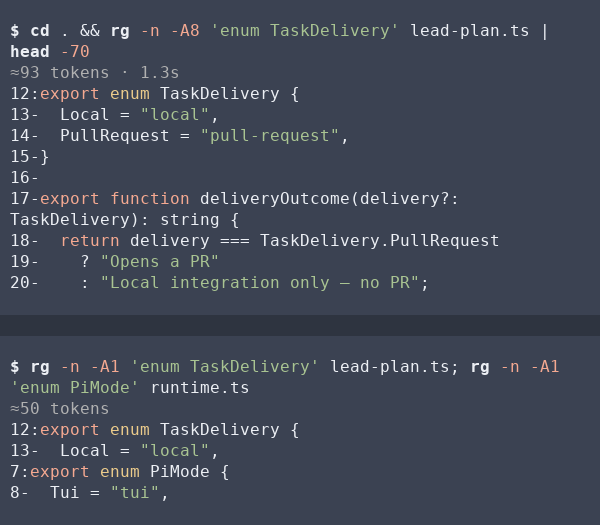
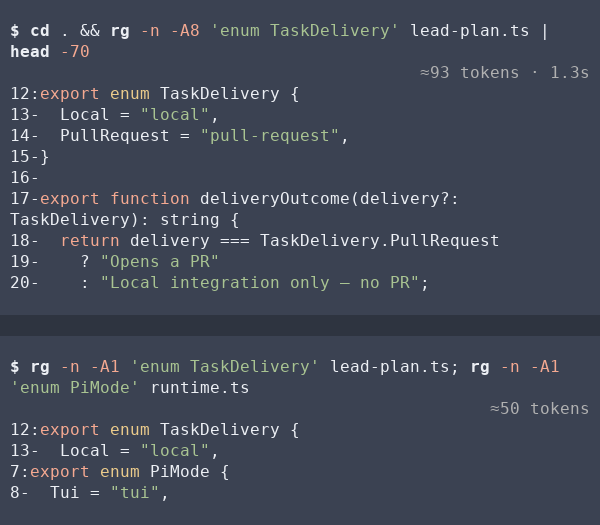
fix(rendering): right-align shell metadata and remove expand hints

diff --git a/tests/codex-patch.test.ts b/tests/codex-patch.test.ts
@@ -243,7 +243,7 @@ await test("Codex discovery displays TypeScript tokens in both compact and expan
     const display = stripTerminalSequences(rows.join("\n"));
     assert.doesNotMatch(display, /Took|0\.2s/u);
     assert.match(display, /≈\d+ tokens/u);
-    assert.equal(display.includes("+1 line"), !expanded);
+    assert.equal(display.includes("1 more line"), !expanded);
     const context = rows.find((row) =>
       stripTerminalSequences(row).includes(`17-${source}`),
     );
@@ -325,7 +325,7 @@ await test("finished shells use the result separator for size, hidden rows and s
         "Use the existing separator without adding a second row",
       );
       const label = [
-        ...(expanded ? [] : ["+1 line (ctrl+y)"]),
+        ...(expanded ? [] : ["1 more line"]),
         size,
         ...(durationMs === 1000 ? ["1.0s"] : []),
       ].join(" · ");
@@ -334,12 +334,7 @@ await test("finished shells use the result separator for size, hidden rows and s
         status.includes(inlayText(theme, label)),
         "Shell metadata uses Studio's inlay foreground",
       );
-      assert.equal(
-        rows.filter((row) => stripTerminalSequences(row).includes("ctrl+y"))
-          .length,
-        expanded ? 0 : 1,
-      );
-      assert.doesNotMatch(display, /earlier lines|to expand|Took/u);
+      assert.doesNotMatch(display, /ctrl\+[oy]|earlier lines|to expand|Took/u);
       assert.equal(display.includes("first"), expanded);
       assert.match(display, /last/u);
     }
@@ -351,7 +346,7 @@ await test("finished shells use the result separator for size, hidden rows and s
   second.setArgsComplete();
   second.updateResult({ ...result, durationMs: 300 });
   const secondHeader = stripTerminalSequences(second.render(100).join("\n"));
-  assert.match(secondHeader, /\$ cat output\.txt *\n *\+1 line/u);
+  assert.match(secondHeader, /\$ cat output\.txt *\n *1 more line/u);
   assert.doesNotMatch(secondHeader, /ctrl\+y|Took/u);
   const path = "/tmp/studio-shell-result.txt";
   const truncated = `${text}\n\n[Showing lines 15-20. Full output: ${path}]`;
@@ -383,6 +378,34 @@ await test("finished shells use the result separator for size, hidden rows and s
   assert.equal(empty.length, 2, "An empty result still shows one usage row");
   assert.equal(empty[0], "$ cat output.txt");
   assert.match(empty[1] ?? "", /^≈\d+ tokens$/u);
+});
+
+await test("shell previews report only rows they actually hide", async (t) => {
+  const { component } = await conversationFixture(t);
+  const shell = component("shell_command", { command: "cat report" });
+  shell.setArgsComplete();
+  const lines = Array.from({ length: 9 }, (_, i) => `result ${String(i + 1)}`);
+  for (const length of [4, 9]) {
+    const output = lines.slice(0, length);
+    shell.updateResult({
+      content: [{ type: "text", text: output.join("\n") }],
+      isError: false,
+    });
+    for (const expanded of [false, true]) {
+      shell.setExpanded(expanded);
+      const rows = shell
+        .render(80)
+        .map((row) => stripTerminalSequences(row).trim())
+        .filter(Boolean);
+      const [heading, metadata, ...shown] = rows;
+      assert.equal(heading, "$ cat report");
+      assert.ok(metadata !== undefined);
+      assert.deepEqual(shown, expanded ? output : output.slice(-5));
+      if (!expanded && length === 9)
+        assert.match(metadata, /^4 more lines · ≈\d+ tokens$/u);
+      else assert.match(metadata, /^≈\d+ tokens$/u);
+    }
+  }
 });
 
 await test("resizing shell results keeps the natural command rows and exactly one separator", async (t) => {
@@ -429,11 +452,19 @@ await test("resizing shell results keeps the natural command rows and exactly on
         natural.get(width),
         `Preserve the full command at ${String(width)} columns`,
       );
-      const status = rows[firstOutput - 1]?.trim() ?? "";
+      const statusRow = rows[firstOutput - 1] ?? "";
+      const status = statusRow.trim();
+      if (status !== "")
+        assert.equal(
+          visibleWidth(statusRow),
+          width - 1,
+          "Right-align metadata to the last content cell",
+        );
+      assert.doesNotMatch(status, /ctrl\+|to expand/u);
       if (width >= exactFit - 1) {
         assert.match(status, /≈\d+ tokens/u);
         assert.match(status, /1\.3s/u);
-        assert.equal(status.includes("+1 line"), !expanded);
+        assert.equal(status.includes("1 more line"), !expanded);
       }
       if (width === 6)
         assert.equal(

diff --git a/shell-preview.ts b/shell-preview.ts
@@ -29,14 +29,10 @@ export function shellOutputPreview(
   theme: Theme,
   {
     expanded,
-    expandKey,
-    showExpandKey,
     tokens,
     elapsed,
   }: {
     expanded: boolean;
-    expandKey: () => string;
-    showExpandKey: () => void;
     tokens: number | undefined;
     elapsed: string | undefined;
   },
@@ -45,7 +41,7 @@ export function shellOutputPreview(
   const metadata = (hidden: number, width: number) => {
     const count =
       hidden > 0
-        ? `+${hidden.toString()} ${hidden === 1 ? "line" : "lines"}`
+        ? `${hidden.toString()} more ${hidden === 1 ? "line" : "lines"}`
         : "";
     const size = tokens === undefined ? "" : `≈${tokens.toString()} tokens`;
     const fields: string[] = [];
@@ -58,15 +54,8 @@ export function shellOutputPreview(
         fields.push(field);
     }
     if (fields.length === 0) return "";
-    if (fields[0] === count) {
-      const key = expandKey();
-      const hinted = [`${count} (${key})`, ...fields.slice(1)].join(" · ");
-      if (key !== "" && visibleWidth(hinted) <= width) {
-        showExpandKey();
-        return inlayText(theme, hinted);
-      }
-    }
-    return inlayText(theme, fields.join(" · "));
+    const label = fields.join(" · ");
+    return " ".repeat(width - visibleWidth(label)) + inlayText(theme, label);
   };
 
   return {

diff --git a/search-renderer.ts b/search-renderer.ts
@@ -325,11 +325,7 @@ const outputDetails = z
 const originalArgs = z.object({ invocationArgs: z.unknown() });
 
 export function registerSearchRendering(pi: ExtensionAPI): void {
-  let expandHintCall: string | undefined;
-  pi.on("session_start", () => {
-    expandHintCall = undefined;
-    return prepareShellSyntax();
-  });
+  pi.on("session_start", () => prepareShellSyntax());
   const painted = new WeakSet<Component>();
   registerCodingRenderer(pi, (name, next) => {
     const base = next();
@@ -422,15 +418,6 @@ export function registerSearchRendering(pi: ExtensionAPI): void {
                   : styled;
               return shellOutputPreview(source, theme, {
                 expanded: options.expanded,
-                expandKey() {
-                  return expandHintCall === undefined ||
-                    expandHintCall === context.toolCallId
-                    ? context.keyText("app.tools.expand")
-                    : "";
-                },
-                showExpandKey() {
-                  expandHintCall ??= context.toolCallId;
-                },
                 tokens:
                   usage === undefined ? undefined : usage.call + usage.result,
                 elapsed: shellElapsed(timerText, context.durationMs, state),

diff --git a/acceptance/shell-header.py b/acceptance/shell-header.py
@@ -77,26 +77,38 @@ console.log(session.getSessionFile());
                 heading = f"$ {full_row_command} (timeout 30s)"
                 terminal.contains(heading)
                 terminal.contains("Retained line 7")
-                # Keep physical rows, including blanks, to catch an extra separator or wrapped metadata.
-                lines = [row.strip() for row in terminal.screen.display]
-                headings = [i for i, line in enumerate(lines) if line.endswith("30s)")]
-                assert len(headings) == len(commands), terminal.text()
-                assert lines[headings[-1]] == heading, terminal.text()
-                for index, row in enumerate(headings):
-                    metrics, first_result = lines[row + 1:row + 3]
-                    assert re.search(r"≈\d+ tokens", metrics), lines[row:row + 4]
-                    assert ("1.3s" in metrics) == (index > 0), lines[row:row + 4]
-                    if index == 2:
-                        assert "+2 lines" in metrics and "ctrl+o" in metrics, metrics
-                        assert first_result == "Retained line 3", lines[row:row + 4]
-                    else:
-                        assert first_result == "Retained fixture output; command was not executed.", lines[row:row + 4]
+                def check_metadata(folded):
+                    physical = terminal.screen.display
+                    lines = [line.strip() for line in physical]
+                    headings = [i for i, line in enumerate(lines) if line.endswith("30s)")]
+                    assert len(headings) == len(commands), terminal.text()
+                    assert lines[headings[-1]] == heading, terminal.text()
+                    for index, row in enumerate(headings):
+                        metrics, first_result = lines[row + 1:row + 3]
+                        # Studio's native tool card has one padding cell at either end.
+                        assert len(physical[row + 1].rstrip()) == width - 1, physical[row + 1]
+                        fields = metrics.split(" · ")
+                        tokens = [field for field in fields if re.fullmatch(r"≈\d+ tokens", field)]
+                        assert len(tokens) == 1, metrics
+                        expected = tokens + (["1.3s"] if index > 0 else [])
+                        if index == 2 and folded:
+                            expected.append("2 more lines")
+                        assert sorted(fields) == sorted(expected), metrics
+                        if index == 2:
+                            assert first_result == ("Retained line 3" if folded else "Retained line 1"), lines[row:row + 4]
+                        else:
+                            assert first_result == "Retained fixture output; command was not executed.", lines[row:row + 4]
+
+                check_metadata(folded=True)
                 # Compound command/flag colors must survive both native layouts.
                 for word in ("gh", "tail"):
                     assert_style(terminal, word, "syntaxFunction", bold=True)
                 for word in ("--repo", "--watch", "--fail-fast", "--interval", "--json", "--jq", "--limit", "-15", "--log"):
                     assert_style(terminal, word, "syntaxKeyword")
                 terminal.capture("shell-header")
+                terminal.send("\x0f")
+                terminal.contains("Retained line 1")
+                check_metadata(folded=False)
             finally:
                 terminal.close()
 
@@ -105,4 +117,4 @@ if __name__ == "__main__":
     parser = argparse.ArgumentParser()
     parser.add_argument("--output", type=Path)
     run(parser.parse_args().output)
-    print("Native Pi retained Bash headers preserve full-width command wrapping and put results directly after one metadata row at 128 and 60 columns; no rendered commands executed.")
+    print("Native Pi retained Bash headers preserve full-width command wrapping and put results directly after one right-aligned metadata row at 128 and 60 columns; no rendered commands executed.")

diff --git a/README.md b/README.md
@@ -233,7 +233,7 @@ In an ordinary coding session, Studio selects the core tool names and arguments 
 
 The dialects in `model-tools/dialects/` translate model-facing arguments and results. Both `Bash` and `shell_command` call `runShell` in `model-tools/operations.ts`, so their timeouts, output, and permissions go through the same Pi shell executor after translation. Claude `Edit` uses exact text replacement. Codex `apply_patch` uses a batch operation that preflights its hunks and runs through the same shell permission hook. The patch tool is available when local read, edit, write, and shell access are all active. Custom executors, restricted workers, and snapshot reviewers retain their configured tools. Studio-specific operations such as Socrates planning and LSP navigation keep their own names across models.
 
-Shell commands appear with a `$` prompt. The row between the command and its output shows the hidden-line count, estimated tokens, and elapsed time when available. Commands and output wrap at the full pane width. On narrow panes, the metadata row shows the fields that fit. The first folded result with room for the configured expand shortcut shows it beside the count. Completed calls show `≈N tokens`, Pi’s estimate for the tool name, original arguments, and full result returned to the model. The provider reports billed usage per model response. Elapsed time appears when a command takes at least one second.
+Shell commands appear with a `$` prompt. The row between the command and its output shows right-aligned metadata. A folded preview shows how many more lines are hidden. Fully displayed output has no line count. Commands and output wrap at the full pane width. On narrow panes, the metadata row shows the fields that fit. Completed calls show `≈N tokens`, Pi’s estimate for the tool name, original arguments, and full result returned to the model. The provider reports billed usage per model response. Elapsed time appears when a command takes at least one second.
 
 File edits show the name the model called, including Claude `Edit` and Codex `apply_patch`. Both use the same renderer for numbered diffs, surrounding lines, and syntax highlighting. When available, the view adds the enclosing declaration, highlights individual token replacements, and displays diagnostics on the affected lines. A multi-file patch shows one `apply_patch` heading. Each file has a path, a brief reason for the change, and its own diff. A newly created file gets one `+` before its name and ordinary line numbers throughout. The transcript retains the diff and syntax context from execution, so later edits to the checkout do not change an earlier result.
 
